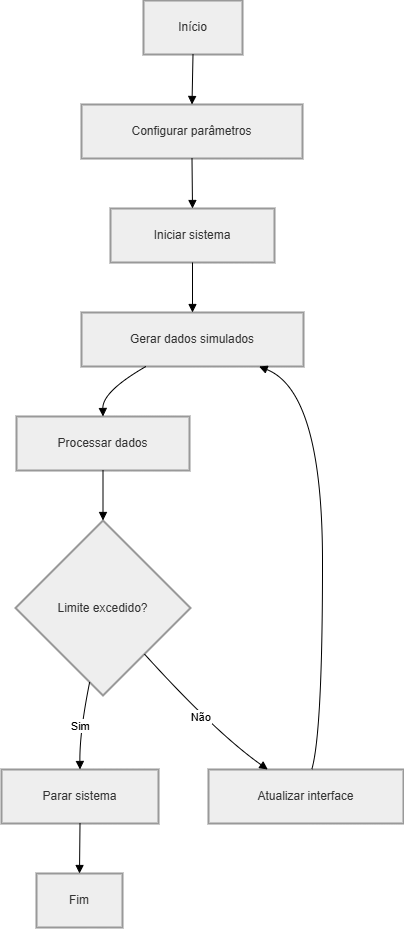
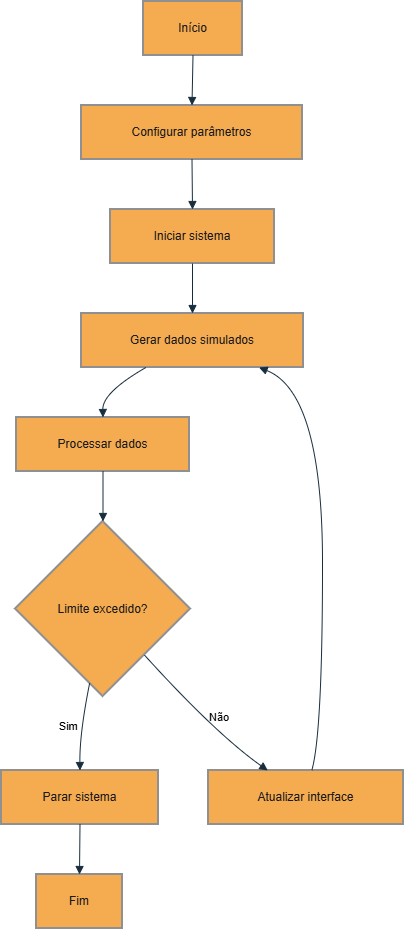
update_analise

diff --git a/projeto.md b/projeto.md
@@ -28,7 +28,7 @@ O diagrama de classes apresenta a estrutura estática do sistema, incluindo clas
 
 ## 3. Descrição das Classes
 
-### 🔵 MainWindow (Interface)
+### --> MAinWindow (Interface)
 
 Responsável pela interface gráfica do sistema.
 
@@ -48,7 +48,7 @@ Responsável pela interface gráfica do sistema.
 
 ---
 
-### 🔵 Controller
+### --> Controller
 
 Responsável pelo controle da aplicação.
 
@@ -70,7 +70,7 @@ Responsável pelo controle da aplicação.
 
 ---
 
-### 🔵 SensorSimulator
+### --> SensorSimulator
 
 Responsável pela simulação dos sensores.
 
@@ -86,7 +86,7 @@ Responsável pela simulação dos sensores.
 
 ---
 
-### 🔵 SensorData
+### --> SensorData
 
 Classe responsável por armazenar os dados do sistema.
 
@@ -101,7 +101,7 @@ Classe responsável por armazenar os dados do sistema.
 
 ---
 
-### 🔵 Cilindro
+### --> Cilindro
 
 Representa o comportamento do atuador da máquina.
 
@@ -121,7 +121,7 @@ Representa o comportamento do atuador da máquina.
 
 ---
 
-### 🔵 Enumerações
+### --> Enumerações
 
 #### ModoOperacao
 Define o modo de operação do sistema:
@@ -212,5 +212,8 @@ Os diagramas apresentados servem como base para a próxima etapa, que correspond
 
 ---
 
-📎 Documento anterior: `analise.md`  
-📎 Próximo documento: `implementacao.md`
+<div align=center>
+
+[Voltar](analise.md) | [Avançar](implementacao.md)
+
+</div>